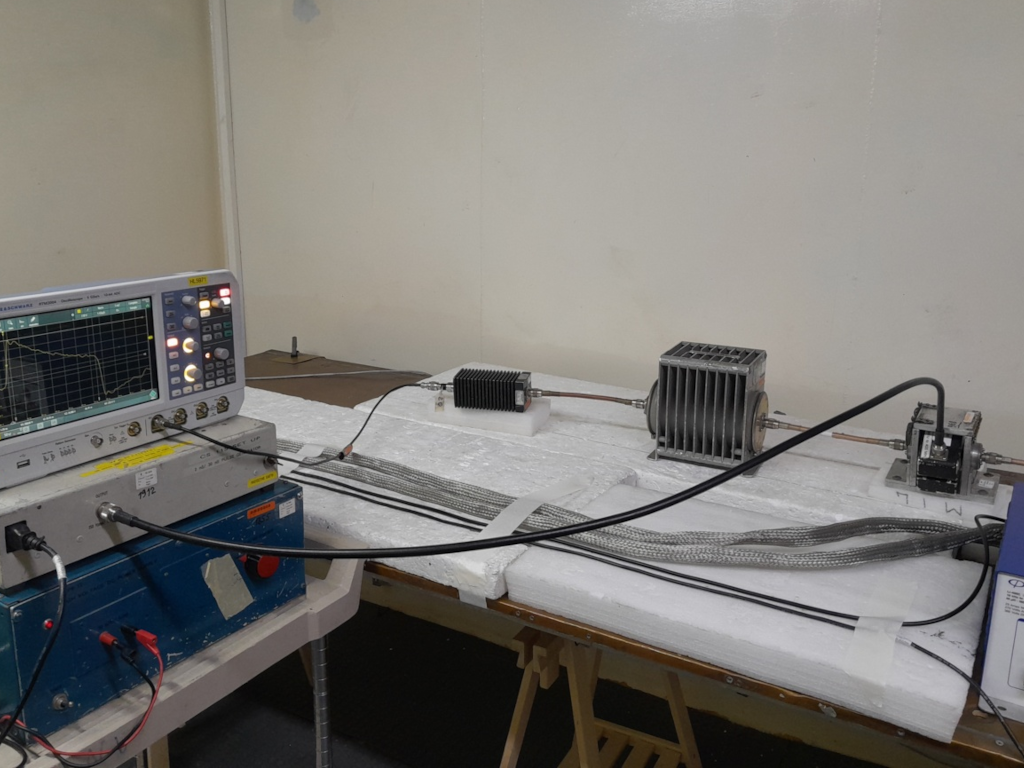
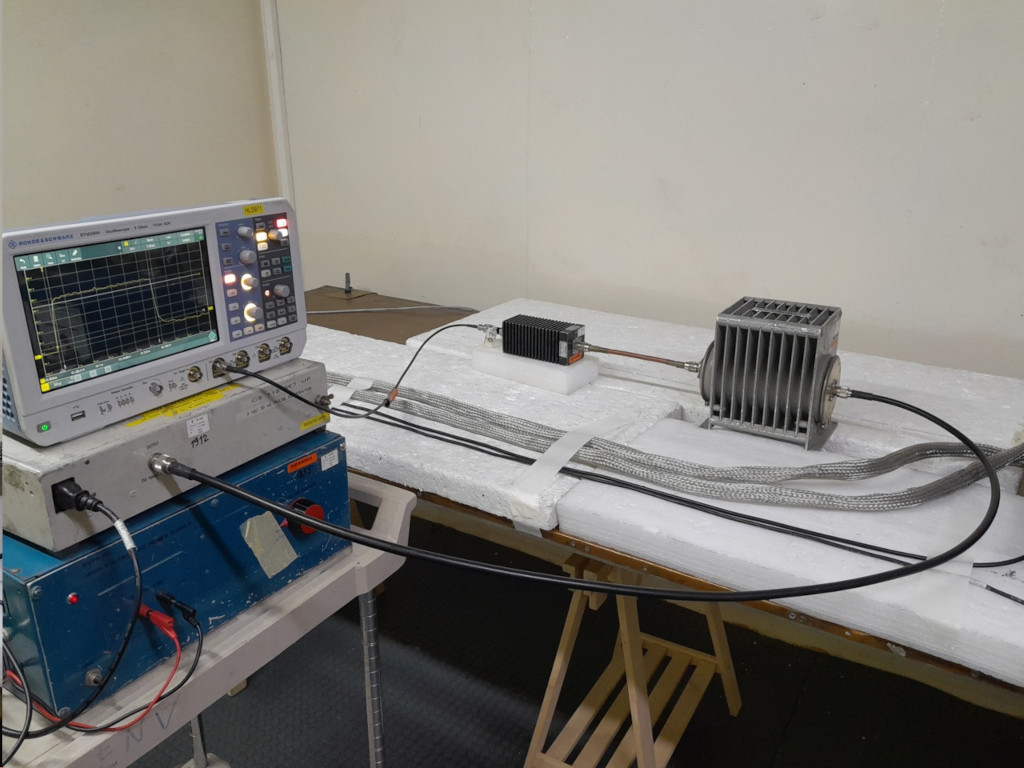
cs115 update draft 03

diff --git a/app/military/templates/susceptibility/461/cs115/cs115.html b/app/military/templates/susceptibility/461/cs115/cs115.html
@@ -93,12 +93,8 @@
                         <li>(2) Terminate one end of the calibration fixture with a coaxial load and terminate the other end with an attenuator connected to an oscilloscope with 50 ohm input impedance.</li>
                     </ul>
                 </td>
-                <td>
-                    <img src="/military/static/images/mil-std-461/cs115/calibration_01.png">
-                </td>
-                <td>
-                    <img src="/military/static/images/mil-std-461/cs115/test_01.png">
-                </td>
+                <td><img src="/military/static/images/mil-std-461/cs115/calibration_01.png"></td>
+                <td><img src="/military/static/images/mil-std-461/cs115/calibration_02.png"></td>
             </tr>
             <tr>
                 <td><ul>Testing
@@ -108,10 +104,7 @@
                 </ul>
                 </td>
                 <td><img src="/military/static/images/mil-std-461/cs115/test_01.png"></td>
-                <td>
-                    <img src="/military/static/images/mil-std-461/table_3__.png"><br>
-                    <img src="/military/static/images/mil-std-461/cs101/test_01__.png">
-                </td>
+                <td><img src="/military/static/images/mil-std-461/cs115/test_02.png"></td>
             </tr>
         </tbody>
     </table>
